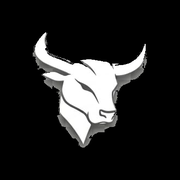
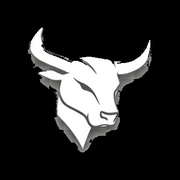
fix(seo): static top-level head OpenGraph tags (v25) for WhatsApp link preview and high-res og-image.png

diff --git a/app/layout.tsx b/app/layout.tsx
@@ -59,11 +59,11 @@ export const metadata: Metadata = {
   ],
   icons: {
     icon: [
-      { url: '/apple-touch-icon.png?v=15', type: 'image/png' },
-      { url: '/apple-touch-icon.png?v=15', type: 'image/png', sizes: '32x32' },
+      { url: '/apple-touch-icon.png?v=25', type: 'image/png' },
+      { url: '/apple-touch-icon.png?v=25', type: 'image/png', sizes: '32x32' },
     ],
-    shortcut: '/apple-touch-icon.png?v=15',
-    apple: '/apple-touch-icon.png?v=15',
+    shortcut: '/apple-touch-icon.png?v=25',
+    apple: '/apple-touch-icon.png?v=25',
   },
   manifest: '/manifest.json',
   openGraph: {
@@ -73,20 +73,20 @@ export const metadata: Metadata = {
     siteName: 'Elite Trading Hub',
     images: [
       {
-        url: 'https://elite-tradinghub.com/og-image.jpg?v=15',
-        secureUrl: 'https://elite-tradinghub.com/og-image.jpg?v=15',
+        url: 'https://elite-tradinghub.com/og-image.png?v=25',
+        secureUrl: 'https://elite-tradinghub.com/og-image.png?v=25',
         width: 1200,
         height: 630,
         alt: 'Elite Trading Hub — Decision-Grade Market Intelligence',
-        type: 'image/jpeg',
+        type: 'image/png',
       },
       {
-        url: 'https://elite-tradinghub.com/square-og-logo.jpg?v=15',
-        secureUrl: 'https://elite-tradinghub.com/square-og-logo.jpg?v=15',
+        url: 'https://elite-tradinghub.com/square-og-logo.png?v=25',
+        secureUrl: 'https://elite-tradinghub.com/square-og-logo.png?v=25',
         width: 600,
         height: 600,
         alt: 'Elite Trading Hub',
-        type: 'image/jpeg',
+        type: 'image/png',
       },
     ],
     locale: 'en_US',
@@ -98,7 +98,7 @@ export const metadata: Metadata = {
     description: 'Next-generation quantitative market intelligence for NIFTY 50, BANK NIFTY & SENSEX traders.',
     site: '@EliteTradingHub',
     creator: '@EliteTradingHub',
-    images: ['https://elite-tradinghub.com/og-image.jpg?v=15'],
+    images: ['https://elite-tradinghub.com/og-image.png?v=25'],
   },
   robots: {
     index: true,
@@ -122,16 +122,27 @@ export default function RootLayout({ children }: Readonly<{ children: React.Reac
   return (
     <html lang="en" className="dark">
       <head>
-        <meta property="og:image" content="https://elite-tradinghub.com/og-image.jpg?v=15" />
-        <meta property="og:image:secure_url" content="https://elite-tradinghub.com/og-image.jpg?v=15" />
-        <meta property="og:image:type" content="image/jpeg" />
+        <title>Elite Trading Hub — Decision-Grade Market Intelligence</title>
+        <meta name="description" content="Next-generation quantitative market intelligence for NIFTY 50, BANK NIFTY & SENSEX traders. Institutional options flow & real-time risk analytics." />
+        <meta property="og:title" content="Elite Trading Hub — Decision-Grade Market Intelligence" />
+        <meta property="og:description" content="Next-generation quantitative market intelligence for NIFTY 50, BANK NIFTY & SENSEX traders. Institutional options flow & real-time risk analytics." />
+        <meta property="og:url" content="https://elite-tradinghub.com" />
+        <meta property="og:site_name" content="Elite Trading Hub" />
+        <meta property="og:type" content="website" />
+        <meta property="og:image" content="https://elite-tradinghub.com/og-image.png?v=25" />
+        <meta property="og:image:secure_url" content="https://elite-tradinghub.com/og-image.png?v=25" />
+        <meta property="og:image:type" content="image/png" />
         <meta property="og:image:width" content="1200" />
         <meta property="og:image:height" content="630" />
         <meta property="og:image:alt" content="Elite Trading Hub — Decision-Grade Market Intelligence" />
-        <meta property="og:site_name" content="Elite Trading Hub" />
-        <meta itemprop="image" content="https://elite-tradinghub.com/og-image.jpg?v=15" />
-        <link rel="image_src" href="https://elite-tradinghub.com/og-image.jpg?v=15" />
-        <link rel="apple-touch-icon" href="/apple-touch-icon.png?v=15" />
+        <meta name="twitter:card" content="summary_large_image" />
+        <meta name="twitter:title" content="Elite Trading Hub — Decision-Grade Market Intelligence" />
+        <meta name="twitter:description" content="Next-generation quantitative market intelligence for NIFTY 50, BANK NIFTY & SENSEX traders." />
+        <meta name="twitter:image" content="https://elite-tradinghub.com/og-image.png?v=25" />
+        <meta itemprop="image" content="https://elite-tradinghub.com/og-image.png?v=25" />
+        <link rel="image_src" href="https://elite-tradinghub.com/og-image.png?v=25" />
+        <link rel="apple-touch-icon" href="/apple-touch-icon.png?v=25" />
+        <link rel="icon" href="/apple-touch-icon.png?v=25" />
       </head>
       <body className={`${interFont.variable} ${interFont.className}`}>
         {children}
